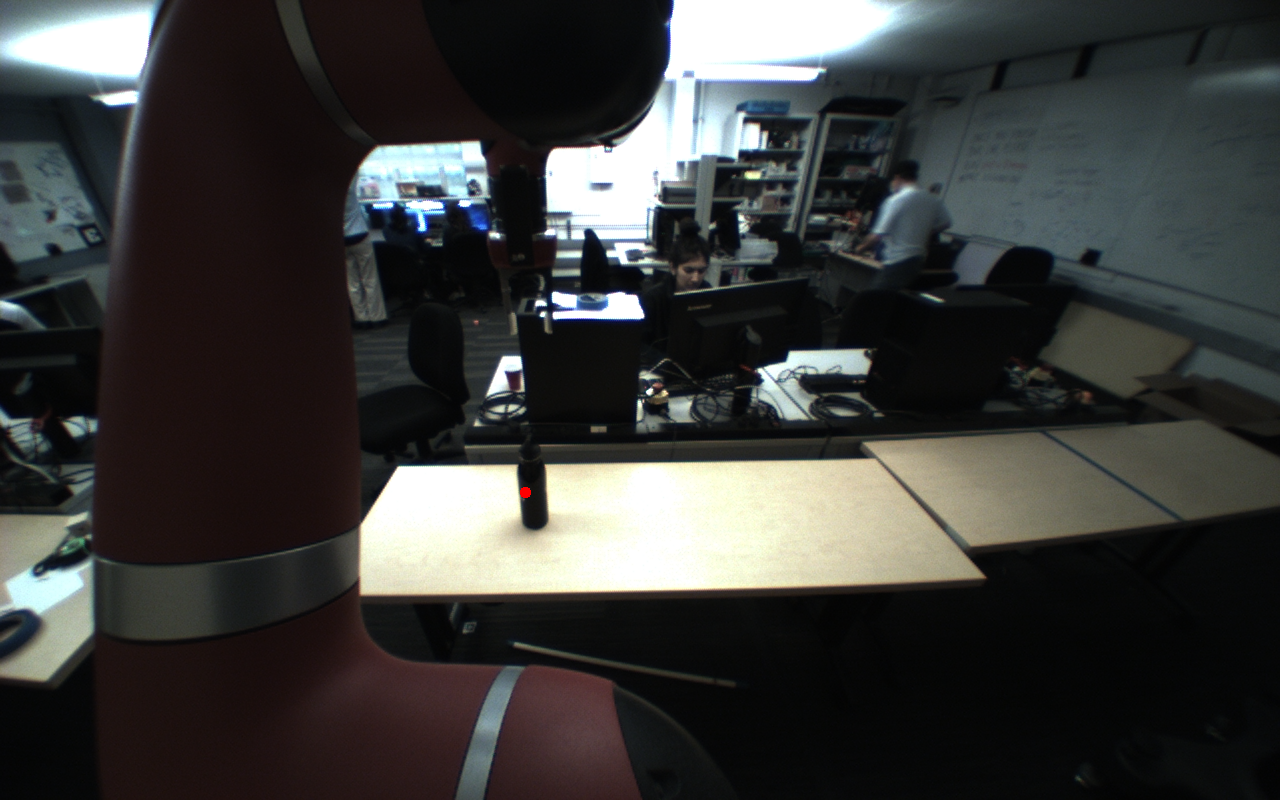
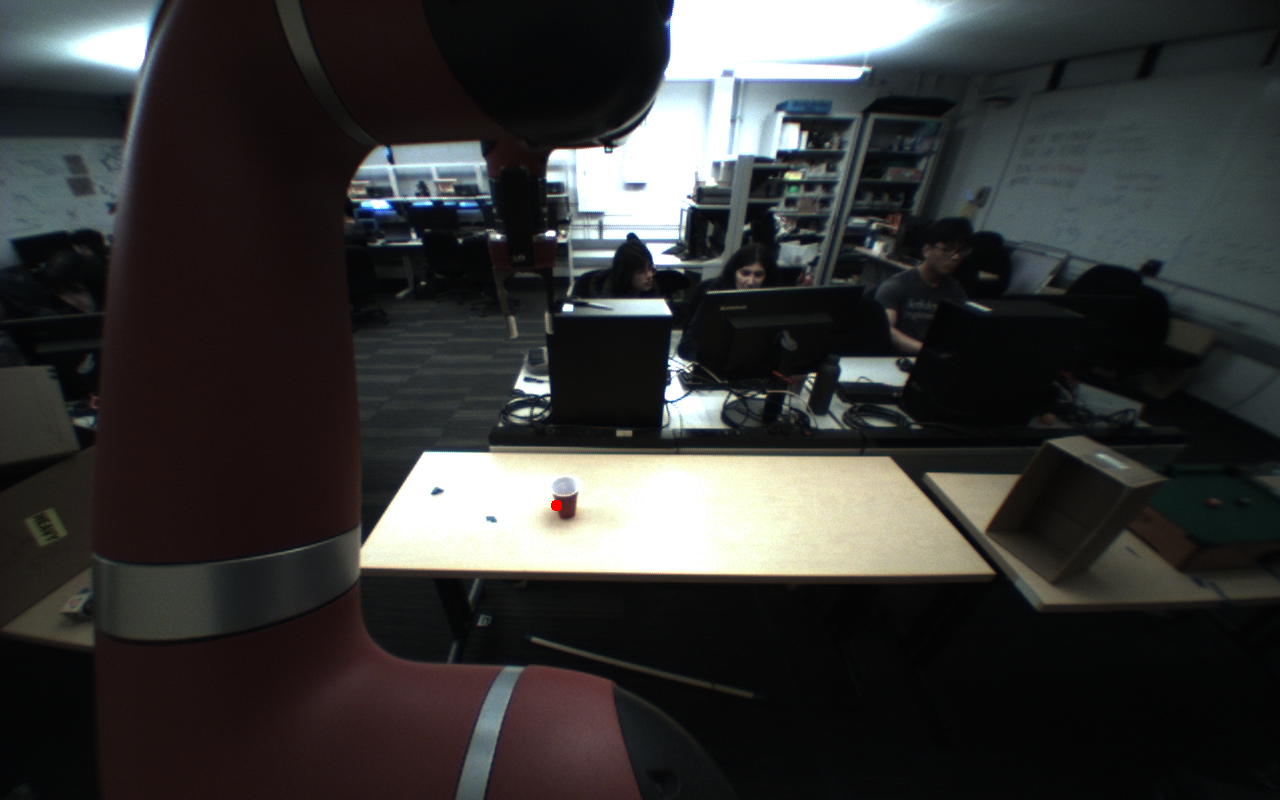
included basic starter code + updates w realsense camera

diff --git a/src/code/src/robot_code.py b/src/code/src/robot_code.py
@@ -22,7 +22,13 @@ class RobotCode:
     def __init__(self):
         rospy.init_node('robot_code', anonymous=True)
         self.bridge = CvBridge()
-        self.image_sub = rospy.Subscriber("/io/internal_camera/head_camera/image_raw", Image, self.image_callback)
+
+        self.cv_color_image = None
+        self.cv_depth_image = None
+
+        self.image_sub = rospy.Subscriber("/camera/color/image_raw", Image, self.image_callback)
+        self.depth_image_sub = rospy.Subscriber("/camera/aligned_depth_to_color/image_raw", Image, self.depth_image_callback)
+
         self.first_image = None
 
         self.fx = None
@@ -30,7 +36,7 @@ class RobotCode:
         self.cx = None
         self.cy = None
 
-        self.camera_info_sub = rospy.Subscriber("/io/internal_camera/head_camera/camera_info", CameraInfo, self.camera_info_callback)     # gettting camera info for pixel conversion
+        self.camera_info_sub = rospy.Subscriber("/camera/color/camera_info", CameraInfo, self.camera_info_callback)     # gettting camera info for pixel conversion
 
         rospy.spin()
     
@@ -41,6 +47,13 @@ class RobotCode:
         self.fy = K[4]
         self.cx = K[2]
         self.cy = K[5]
+    
+    def pixel_to_point(self, u, v, depth):
+        # Use the camera intrinsics to convert pixel coordinates to real-world coordinates
+        X = ((u-self.cx)*depth)/self.fx
+        Y = ((v-self.cy)*depth)/self.fy
+        Z = depth
+        return X, Y, Z
 
     def image_callback(self, img_data):
         """The callback function to show image by using CvBridge and cv
@@ -75,6 +88,56 @@ class RobotCode:
         except CvBridgeError as err:
             rospy.logerr(err)
             return
+    
+    def depth_image_callback(self, msg):
+        try:
+            # Convert the ROS Image message to an OpenCV image (16UC1 format)
+            self.cv_depth_image = self.bridge.imgmsg_to_cv2(msg, "16UC1")
+
+        except Exception as e:
+            print("Error - depth:", e)
+    
+    def process_images(self):
+
+        # Fetch the depth value at the center
+        center_x, center_y = self.centroid
+        depth = self.cv_depth_image[center_y, center_x]
+        print(self.fx)
+        print(self.fy)
+        print(self.cx)
+        print(self.cy)
+        if self.fx and self.fy and self.cx and self.cy:
+            camera_x, camera_y, camera_z = self.pixel_to_point(center_x, center_y, depth)
+            
+            camera_link_x, camera_link_y, camera_link_z = camera_z, -camera_x, -camera_y
+            # Convert from mm to m
+            camera_link_x /= 1000
+            camera_link_y /= 1000
+            camera_link_z /= 1000
+
+            # Convert the (X, Y, Z) coordinates from camera frame to base frame
+            # TODO: is base the right frame we're trying to transform to??
+            try:
+                self.tf_listener.waitForTransform("/base", "/camera_link", rospy.Time(), rospy.Duration(10.0))
+                point_base = self.tf_listener.transformPoint("/base", PointStamped(header=Header(stamp=rospy.Time(), frame_id="/camera_link"), point=Point(camera_link_x, camera_link_y, camera_link_z)))
+                X_base, Y_base, Z_base = point_base.point.x, point_base.point.y, point_base.point.z
+                print("Real-world coordinates in base frame: (X, Y, Z) = ({:.2f}m, {:.2f}m, {:.2f}m)".format(X_base, Y_base, Z_base))
+
+                if X_base < 0.001 and X_base > -0.001:
+                    print("Erroneous goal point, not publishing - Is the cup too close to the camera?")
+                else:
+                    print("Publishing goal point: ", X_base, Y_base, Z_base)
+                    # Publish the transformed point
+                    self.point_pub.publish(Point(X_base, Y_base, Z_base))
+
+                    cup_img = self.cv_color_image.copy()
+                    
+                    # Convert to ROS Image message and publish
+                    ros_image = self.bridge.cv2_to_imgmsg(cup_img, "bgr8")
+                    self.image_pub.publish(ros_image)
+            except (tf.LookupException, tf.ConnectivityException, tf.ExtrapolationException) as e:
+                print("TF Error: " + str(e))
+                return
 
 
 

diff --git a/src/code/src/client.py b/src/code/src/client.py
@@ -6,8 +6,6 @@ import numpy as np
 
 json_numpy.patch()
 
-SERVER_URL = "http://128.32.176.100:8000"
-
 def get_centroid_and_recyclable_label(image):
     
     payload = {
@@ -19,7 +17,7 @@ def get_centroid_and_recyclable_label(image):
     output = loads(requests.post(
         # 'http://128.32.176.100:8000/query',
         # 'http://128.32.162.191:8000/query',
-        'https://3622-128-32-176-100.ngrok-free.app/',
+        'https://3622-128-32-176-100.ngrok-free.app/query',
         json=payload,
     ).json())
 
